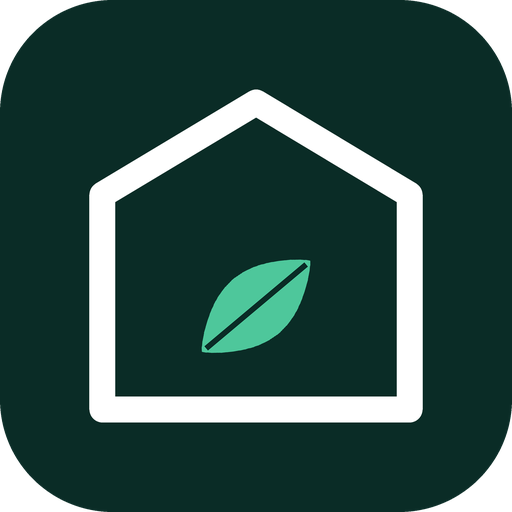
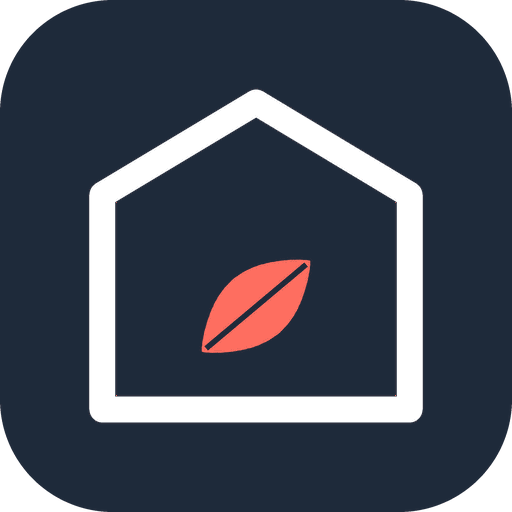
Paleta Ardósia e coral no app, ícone e barra do celular
- Tokens de cor em claro e escuro (ardósia de marca, coral de ação).
- Logo, ícones do app (PNG), manifest e theme-color alinhados à nova paleta.

Claude-Session: https://claude.ai/code/session_018zXNZTNapXTjQtT3FoXgV4

Changed region(s): [[0.375, 0.5, 0.625, 0.7188]]

diff --git a/src/index.css b/src/index.css
@@ -1,36 +1,36 @@
 /* ===================================================================
    Design System "Casa+" — o app de finanças da casa.
-   Verde-escuro de marca (confiança, dinheiro parado), verde-menta como
-   única cor de ação (o que te move: começar, salvar, progredir) e um
-   fundo quase branco levemente esverdeado. Cor saturada só onde o
+   Ardósia de marca (confiança, dinheiro parado), coral como única cor
+   de ação (o que te move: começar, salvar, progredir) e um fundo quase
+   branco levemente azulado. (Os tokens --mint* guardam o coral.) Cor saturada só onde o
    dinheiro pede: entrou, saiu, e a identidade de cada categoria.
    =================================================================== */
 
 :root {
   /* --- Superfícies --- */
-  --bg: #f4f7f5;
+  --bg: #f3f5f8;
   --panel: #ffffff;
-  --panel-2: #f1f5f2;   /* superfície aninhada dentro de um card */
-  --hairline: rgba(15, 59, 51, 0.09);
+  --panel-2: #edf0f4;   /* superfície aninhada dentro de um card */
+  --hairline: rgba(30, 42, 58, 0.09);
 
   /* --- Texto --- */
-  --ink: #0f2b25;
-  --muted: #6b807a;
+  --ink: #1c2633;
+  --muted: #66758a;
 
   /* --- Marca --- */
-  --brand: #0f3b33;          /* verde-escuro: splash, botões sólidos, sidebar */
-  --brand-deep: #0a2c26;
-  --brand-soft: rgba(15, 59, 51, 0.07);
+  --brand: #1e2a3a;          /* ardósia: splash, botões sólidos, sidebar */
+  --brand-deep: #17212e;
+  --brand-soft: rgba(30, 42, 58, 0.07);
   --on-brand: #ffffff;
 
   /* --- Ação (menta) --- */
-  --mint: #4ec79b;
-  --mint-strong: #2fae82;
-  --mint-soft: rgba(78, 199, 155, 0.14);
-  --on-mint: #06251e;
+  --mint: #ff6f61;
+  --mint-strong: #e5493a;
+  --mint-soft: rgba(255, 111, 97, 0.14);
+  --on-mint: #3a0d08;
 
   /* --- Interação --- */
-  --link: #1d8f73;
+  --link: #d63f2f;
 
   /* --- Semântica de dinheiro --- */
   --good: #1f9d6b;
@@ -47,9 +47,9 @@
   --cat-outros: #94a3b8;
 
   /* --- Elevação: sombra suave e larga, nada de borda dura --- */
-  --shadow-sm: 0 1px 2px rgba(15, 59, 51, 0.04);
-  --shadow-md: 0 2px 6px rgba(15, 59, 51, 0.04), 0 14px 34px rgba(15, 59, 51, 0.07);
-  --shadow-nav: 0 -1px 0 var(--hairline), 0 -10px 28px rgba(15, 59, 51, 0.06);
+  --shadow-sm: 0 1px 2px rgba(30, 42, 58, 0.04);
+  --shadow-md: 0 2px 6px rgba(30, 42, 58, 0.04), 0 14px 34px rgba(30, 42, 58, 0.07);
+  --shadow-nav: 0 -1px 0 var(--hairline), 0 -10px 28px rgba(30, 42, 58, 0.06);
 
   /* --- Raios: cartões bem arredondados, como no layout --- */
   --r-sm: 12px;
@@ -79,25 +79,25 @@
 }
 
 [data-theme='dark'] {
-  --bg: #08120f;
-  --panel: #11201b;
-  --panel-2: #182a24;
+  --bg: #0b1017;
+  --panel: #121a25;
+  --panel-2: #1c2736;
   --hairline: rgba(255, 255, 255, 0.09);
 
-  --ink: #e6f0ec;
-  --muted: #8ba39b;
+  --ink: #e8edf3;
+  --muted: #8d9db0;
 
-  --brand: #4ec79b;
-  --brand-deep: #0a2c26;
-  --brand-soft: rgba(78, 199, 155, 0.14);
-  --on-brand: #06251e;
+  --brand: #ff6f61;
+  --brand-deep: #1e2a3a;
+  --brand-soft: rgba(255, 111, 97, 0.14);
+  --on-brand: #3a0d08;
 
-  --mint: #4ec79b;
-  --mint-strong: #6ad7b0;
-  --mint-soft: rgba(78, 199, 155, 0.16);
-  --on-mint: #06251e;
+  --mint: #ff6f61;
+  --mint-strong: #ff8f84;
+  --mint-soft: rgba(255, 111, 97, 0.16);
+  --on-mint: #3a0d08;
 
-  --link: #6ad7b0;
+  --link: #ff8f84;
 
   --good: #35c68d;
   --good-soft: rgba(53, 198, 141, 0.15);

diff --git a/index.html b/index.html
@@ -8,8 +8,8 @@
 
     <!-- PWA: permite instalar como app na tela inicial -->
     <link rel="manifest" href="/manifest.json" />
-    <meta name="theme-color" content="#F4F7F5" media="(prefers-color-scheme: light)" />
-    <meta name="theme-color" content="#08120F" media="(prefers-color-scheme: dark)" />
+    <meta name="theme-color" content="#F3F5F8" media="(prefers-color-scheme: light)" />
+    <meta name="theme-color" content="#0B1017" media="(prefers-color-scheme: dark)" />
 
     <!-- Ícones -->
     <link rel="icon" type="image/png" sizes="192x192" href="/icon-192.png" />
@@ -38,7 +38,7 @@
         if (!raiz || raiz.dataset.falha) return;
         raiz.dataset.falha = '1';
         raiz.innerHTML =
-          '<div style="min-height:100vh;display:flex;flex-direction:column;justify-content:center;gap:12px;padding:26px;font-family:system-ui,sans-serif;color:#0f2b25;background:#f4f7f5;line-height:1.5">' +
+          '<div style="min-height:100vh;display:flex;flex-direction:column;justify-content:center;gap:12px;padding:26px;font-family:system-ui,sans-serif;color:#1c2633;background:#f3f5f8;line-height:1.5">' +
           '<strong style="font-size:19px">' + titulo + '</strong>' +
           '<pre style="white-space:pre-wrap;word-break:break-word;font-size:12px;color:#6b807a;background:#fff;padding:14px;border-radius:14px;margin:0">' + detalhe + '</pre></div>';
       };

diff --git a/src/components/Logo.jsx b/src/components/Logo.jsx
@@ -5,7 +5,7 @@
  */
 export default function Logo({ size = 32, className = '', tone = 'brand' }) {
   const traco = tone === 'light' ? '#ffffff' : 'var(--brand)';
-  const folha = tone === 'light' ? '#4ec79b' : 'var(--mint)';
+  const folha = tone === 'light' ? '#ff6f61' : 'var(--mint)';
 
   return (
     <svg
@@ -29,7 +29,7 @@ export default function Logo({ size = 32, className = '', tone = 'brand' }) {
       />
       <path
         d="m17.9 30.6 10.6-11.3"
-        stroke={tone === 'light' ? '#0a2c26' : 'var(--panel)'}
+        stroke={tone === 'light' ? '#1e2a3a' : 'var(--panel)'}
         strokeWidth="1.4"
         strokeLinecap="round"
       />

diff --git a/src/main.jsx b/src/main.jsx
@@ -20,7 +20,7 @@ function mostrarFalha(titulo, detalhe) {
   if (!raiz) return;
   raiz.innerHTML =
     '<div style="min-height:100vh;display:flex;flex-direction:column;justify-content:center;' +
-    "gap:12px;padding:28px;font-family:system-ui,sans-serif;color:#0f2b25;background:#f4f7f5;" +
+    "gap:12px;padding:28px;font-family:system-ui,sans-serif;color:#1c2633;background:#f3f5f8;" +
     'line-height:1.5"><strong style="font-size:19px">' +
     titulo +
     "</strong>" +

diff --git a/src/casa.css b/src/casa.css
@@ -212,7 +212,7 @@
 .fab {
   background: var(--brand);
   color: var(--on-brand);
-  box-shadow: 0 8px 24px rgba(15, 59, 51, 0.28);
+  box-shadow: 0 8px 24px rgba(30, 42, 58, 0.30);
   /* único botão flutuante: círculo só com o "+", em qualquer largura */
   width: 58px;
   height: 58px;
